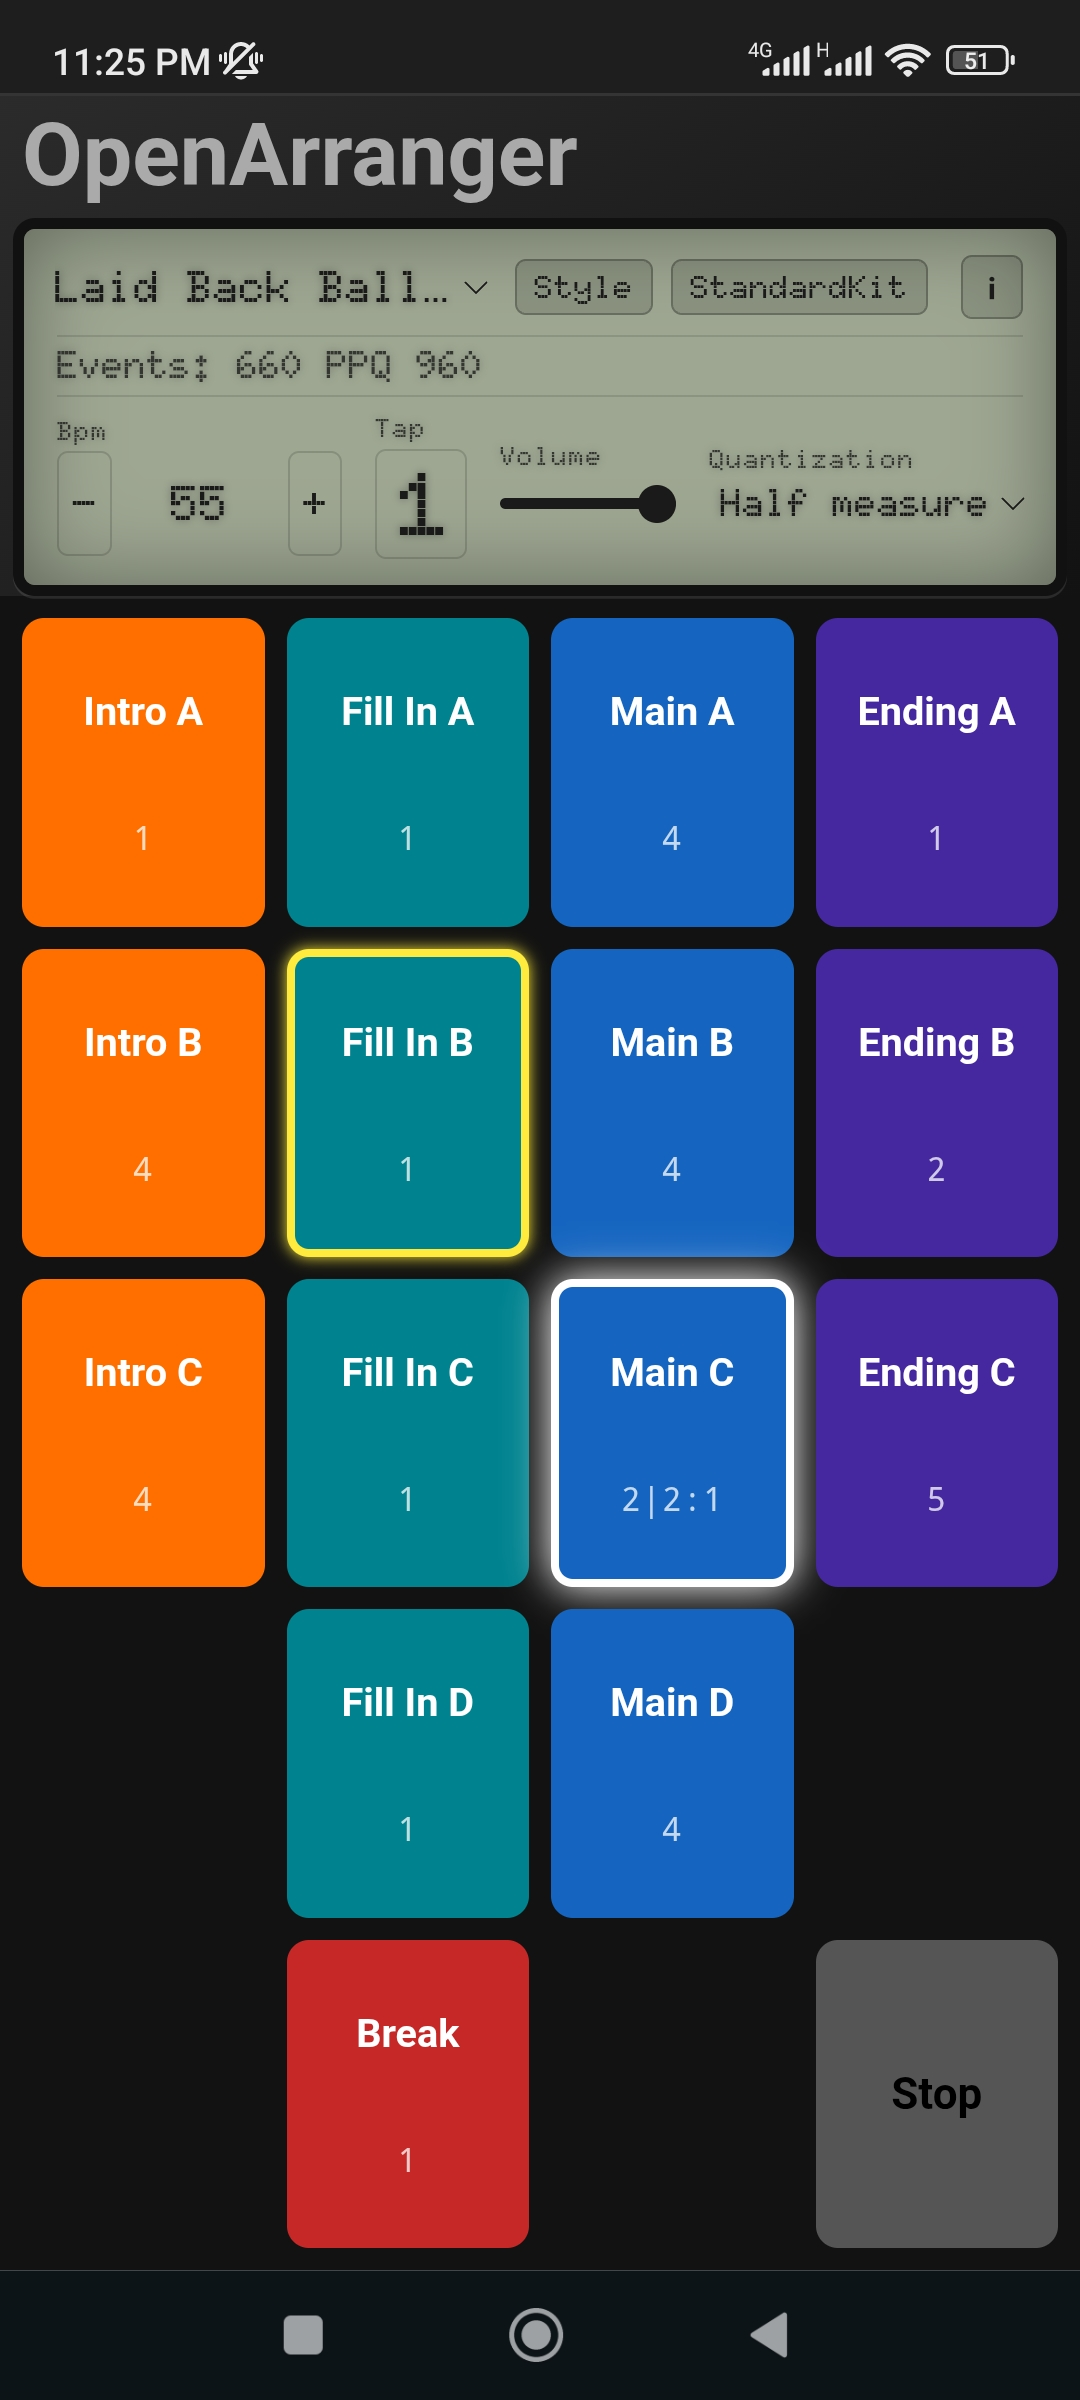
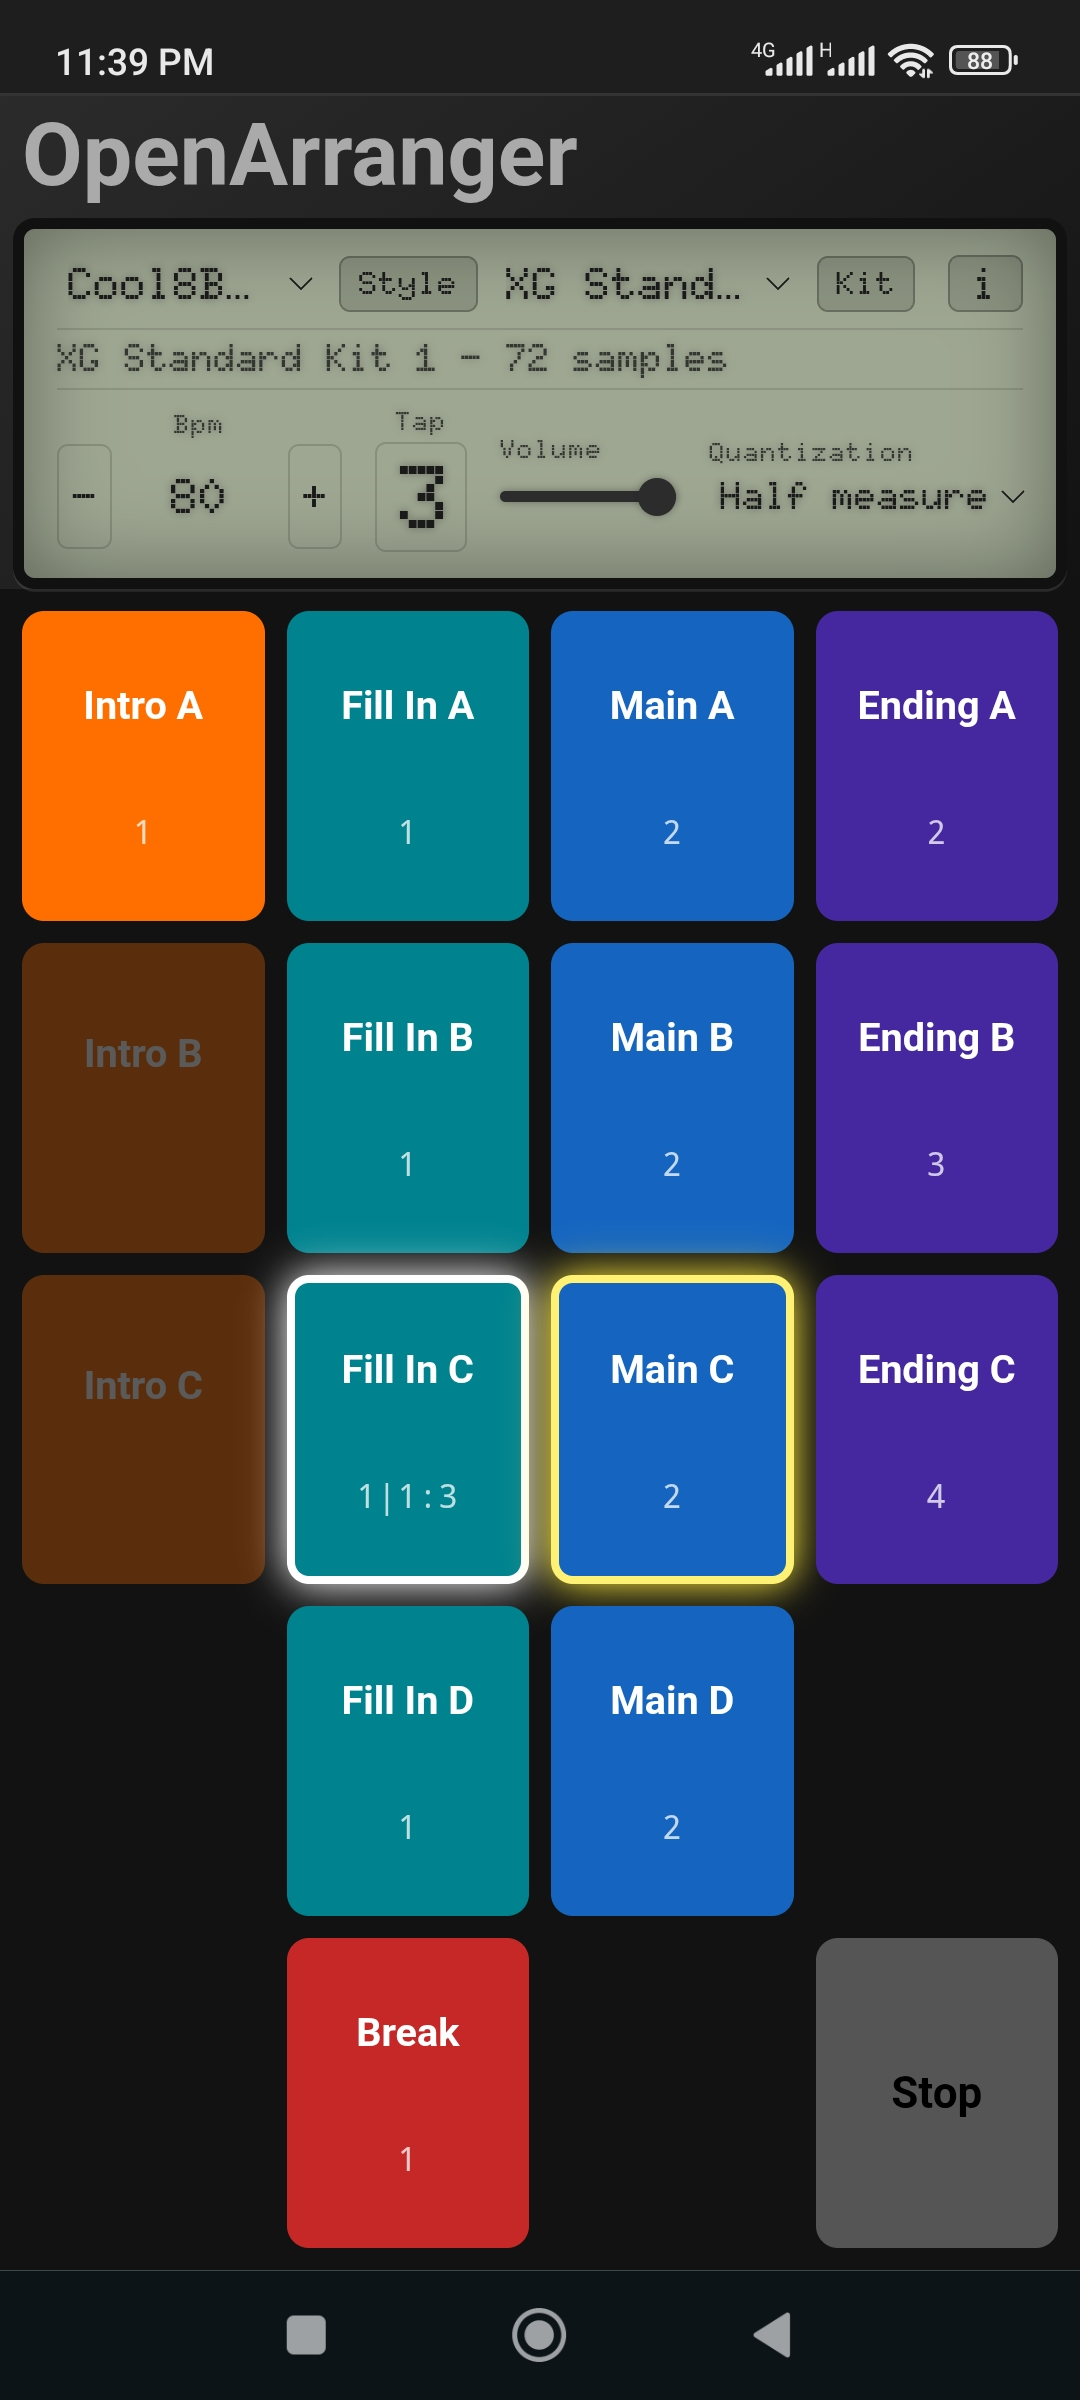
Update README

diff --git a/README.md b/README.md
@@ -9,12 +9,15 @@ OpenArranger is an open-source, web-based, offline-first accompaniment tool desi
 - **Performance-Driven UI:** Large, ergonomic vertical grid designed specifically for mobile devices and live stage environments.
 - **Dynamic Quantization:** Seamless section transitions supporting full-measure, half-measure, or quarter-measure execution.
 - **Zero-Latency Audio Engine:** Built entirely on top of the Web Audio API for rock-solid, sample-accurate clock timing.
+- **Visual Routing Feedback:** Intro, Fill, and Break buttons always preview their destination section, so you always know where the music is going.
 - **Open Standards:** Uses standard MIDI files and human-readable text formats, allowing creators to produce content using any DAW.
 - **Decoupled Architecture:** Audio kits and rhythm styles are completely independent, enabling infinite sound combinations.
 
 ## Sound Kit Specification (.kit)
 
-A Sound Kit is a compressed `.zip` archive renamed to `.kit`. It must contain a simplified `.sfz` definition file at the root level alongside a `Samples/` directory containing the audio waveforms (WAV).
+A Sound Kit is a compressed `.zip` archive renamed to `.kit`. It must contain one or more `.sfz` definition files at the root level alongside a single `Samples/` directory containing the audio waveforms (WAV). All SFZs inside the same kit share the same `Samples/` folder, avoiding duplication.
+
+When a kit with multiple SFZs is loaded, a selector appears in the UI allowing real-time switching between them.
 
 ### Supported SFZ Opcodes
 
@@ -25,7 +28,19 @@ The custom parser supports a subset of the standard SFZ specification:
 - **`<group>`**: `group`, `off_by`, `group_label`
 - **`<region>`**: `key`, `sample`
 
-### Example `drumkit.sfz`
+### Example kit structure
+
+```
+drumkit.kit (zip)
+├── standard.sfz
+├── brush.sfz
+└── Samples/
+    ├── Kick_036.wav
+    ├── Snare_038.wav
+    └── ...
+```
+
+### Example `standard.sfz`
 
 ```sfz
 <control> default_path=Samples/
@@ -49,7 +64,20 @@ The custom parser supports a subset of the standard SFZ specification:
 
 A Style is a compressed `.zip` archive renamed to `.style`. It must contain a single Standard MIDI File (`.mid`) alongside a structure configuration file named `style.json`.
 
+Multiple `.style` files can be loaded at once. The active style is selected via a dropdown in the UI. The engine always starts at **Intro A** when a new style is applied.
+
 The core engine maps performance sections based on full bars, decoupling the musical data from rigid, linear playback.
+
+### `style.json` fields
+
+| Field | Type | Required | Description |
+|---|---|---|---|
+| `name` | string | ✅ | Display name |
+| `timeSignature` | [number, number] | ✅ | e.g. `[4, 4]` or `[6, 8]` |
+| `bpm` | number | ✅ | Default tempo |
+| `drumChannel` | number or array | ✅ | MIDI channel(s) for drums, e.g. `10` or `[9, 10]` |
+| `sections` | object | ✅ | Section map (see below) |
+| `beatUnit` | string or number | — | Beat subdivision for compound time (see below) |
 
 ### Example `style.json`
 
@@ -71,11 +99,27 @@ The core engine maps performance sections based on full bars, decoupling the mus
 }
 ```
 
-**Optional:** For rhythms in compound time signatures, it is necessary to explicitly indicate the time signature (`8` for eighth note, `"4."` for dotted quarter note).
+### Compound time signatures and `beatUnit`
+
+In compound meters (6/8, 12/8, etc.), the beat unit is ambiguous — a musician may feel the pulse as a dotted quarter note or as an eighth note. The `beatUnit` field lets the style creator declare this explicitly, so both the tap tempo and internal playback speed behave correctly.
+
+| Value | Meaning |
+|---|---|
+| `4` | Quarter note — default, same as omitting the field |
+| `8` | Eighth note |
+| `"4."` | Dotted quarter note |
+| `2` | Half note |
 
 ```json
-"beatUnit": "4."
+{
+  "name": "Baião",
+  "timeSignature": [6, 8],
+  "beatUnit": "4.",
+  "bpm": 72
+}
 ```
+
+When `beatUnit` is omitted, the engine defaults to a quarter note — preserving full backward compatibility with existing styles.
 
 ## License & Credits
 